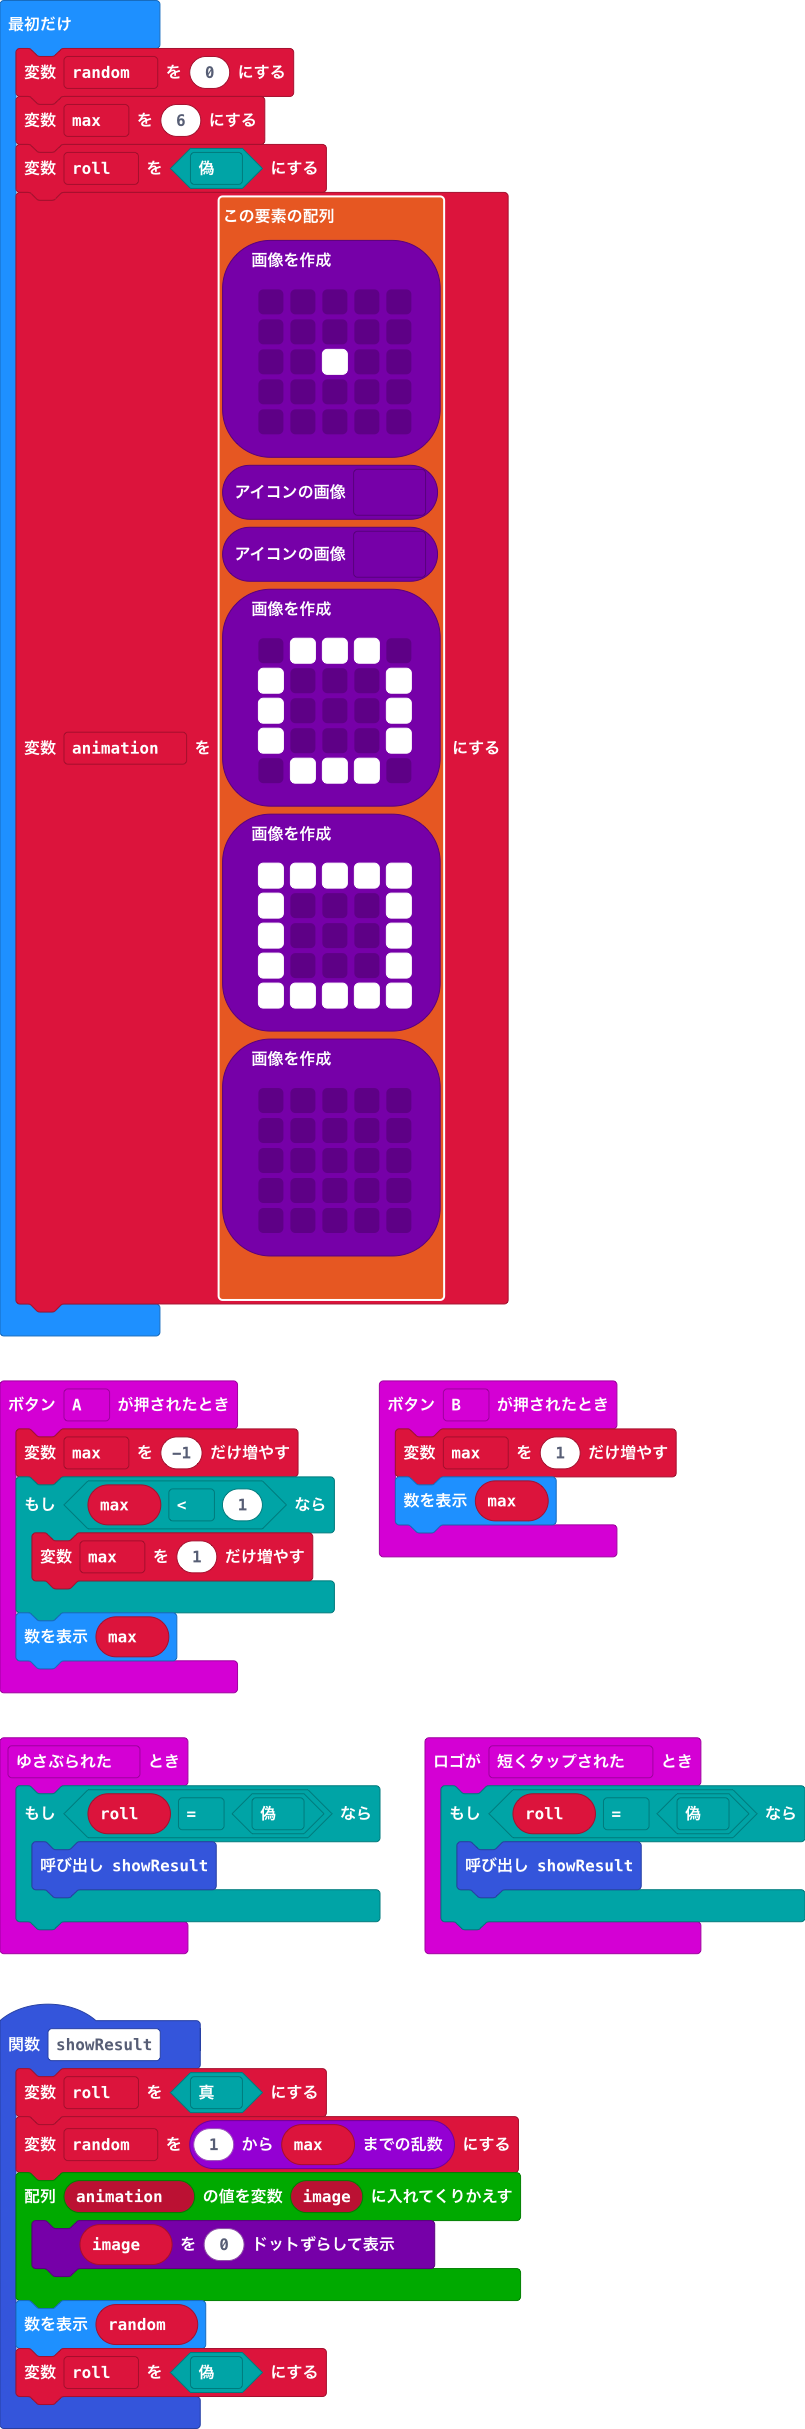
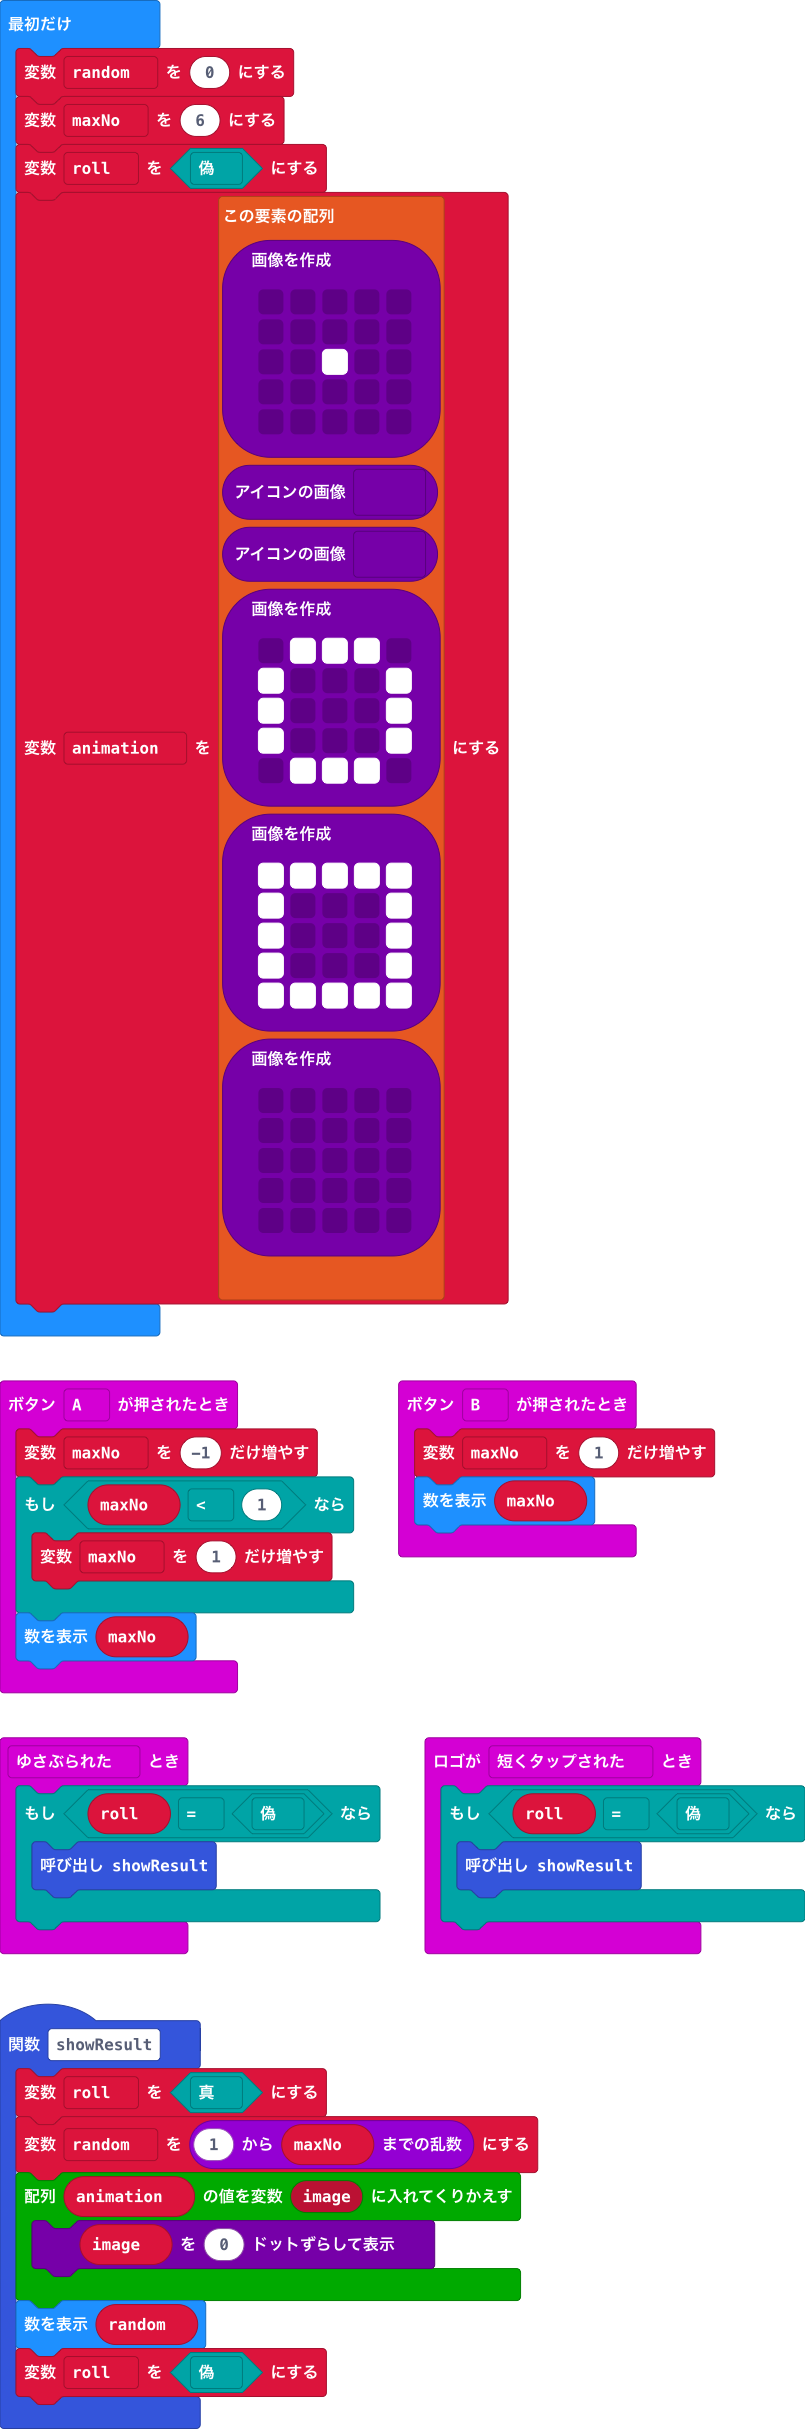
更新 pxt.json, main.blocks, main.ts, main.py

diff --git a/main.ts b/main.ts
@@ -1,9 +1,9 @@
 input.onButtonPressed(Button.A, function () {
-    max += -1
-    if (max < 1) {
-        max += 1
+    maxNo += -1
+    if (maxNo < 1) {
+        maxNo += 1
     }
-    basic.showNumber(max)
+    basic.showNumber(maxNo)
 })
 input.onGesture(Gesture.Shake, function () {
     if (roll == false) {
@@ -11,12 +11,12 @@ input.onGesture(Gesture.Shake, function () {
     }
 })
 input.onButtonPressed(Button.B, function () {
-    max += 1
-    basic.showNumber(max)
+    maxNo += 1
+    basic.showNumber(maxNo)
 })
 function showResult () {
     roll = true
-    random = randint(1, max)
+    random = randint(1, maxNo)
     for (let image of animation) {
         image.showImage(0)
     }
@@ -30,10 +30,10 @@ input.onLogoEvent(TouchButtonEvent.Pressed, function () {
 })
 let animation: Image[] = []
 let roll = false
-let max = 0
+let maxNo = 0
 let random = 0
 random = 0
-max = 6
+maxNo = 6
 roll = false
 animation = [
 images.createImage(`

diff --git a/main.py b/main.py
@@ -1,9 +1,9 @@
 def on_button_pressed_a():
-    global max2
-    max2 += -1
-    if max2 < 1:
-        max2 += 1
-    basic.show_number(max2)
+    global maxNo
+    maxNo += -1
+    if maxNo < 1:
+        maxNo += 1
+    basic.show_number(maxNo)
 input.on_button_pressed(Button.A, on_button_pressed_a)
 
 def on_gesture_shake():
@@ -12,15 +12,15 @@ def on_gesture_shake():
 input.on_gesture(Gesture.SHAKE, on_gesture_shake)
 
 def on_button_pressed_b():
-    global max2
-    max2 += 1
-    basic.show_number(max2)
+    global maxNo
+    maxNo += 1
+    basic.show_number(maxNo)
 input.on_button_pressed(Button.B, on_button_pressed_b)
 
 def showResult():
     global roll, random
     roll = True
-    random = randint(1, max2)
+    random = randint(1, maxNo)
     for image in animation:
         image.show_image(0)
     basic.show_number(random)
@@ -33,10 +33,10 @@ input.on_logo_event(TouchButtonEvent.PRESSED, on_logo_pressed)
 
 animation: List[Image] = []
 roll = False
-max2 = 0
+maxNo = 0
 random = 0
 random = 0
-max2 = 6
+maxNo = 6
 roll = False
 animation = [images.create_image("""
         . . . . .
@@ -60,4 +60,11 @@ animation = [images.create_image("""
             # . . . #
             # . . . #
             # # # # #
+    """),
+    images.create_image("""
+        . . . . .
+            . . . . .
+            . . . . .
+            . . . . .
+            . . . . .
     """)]
